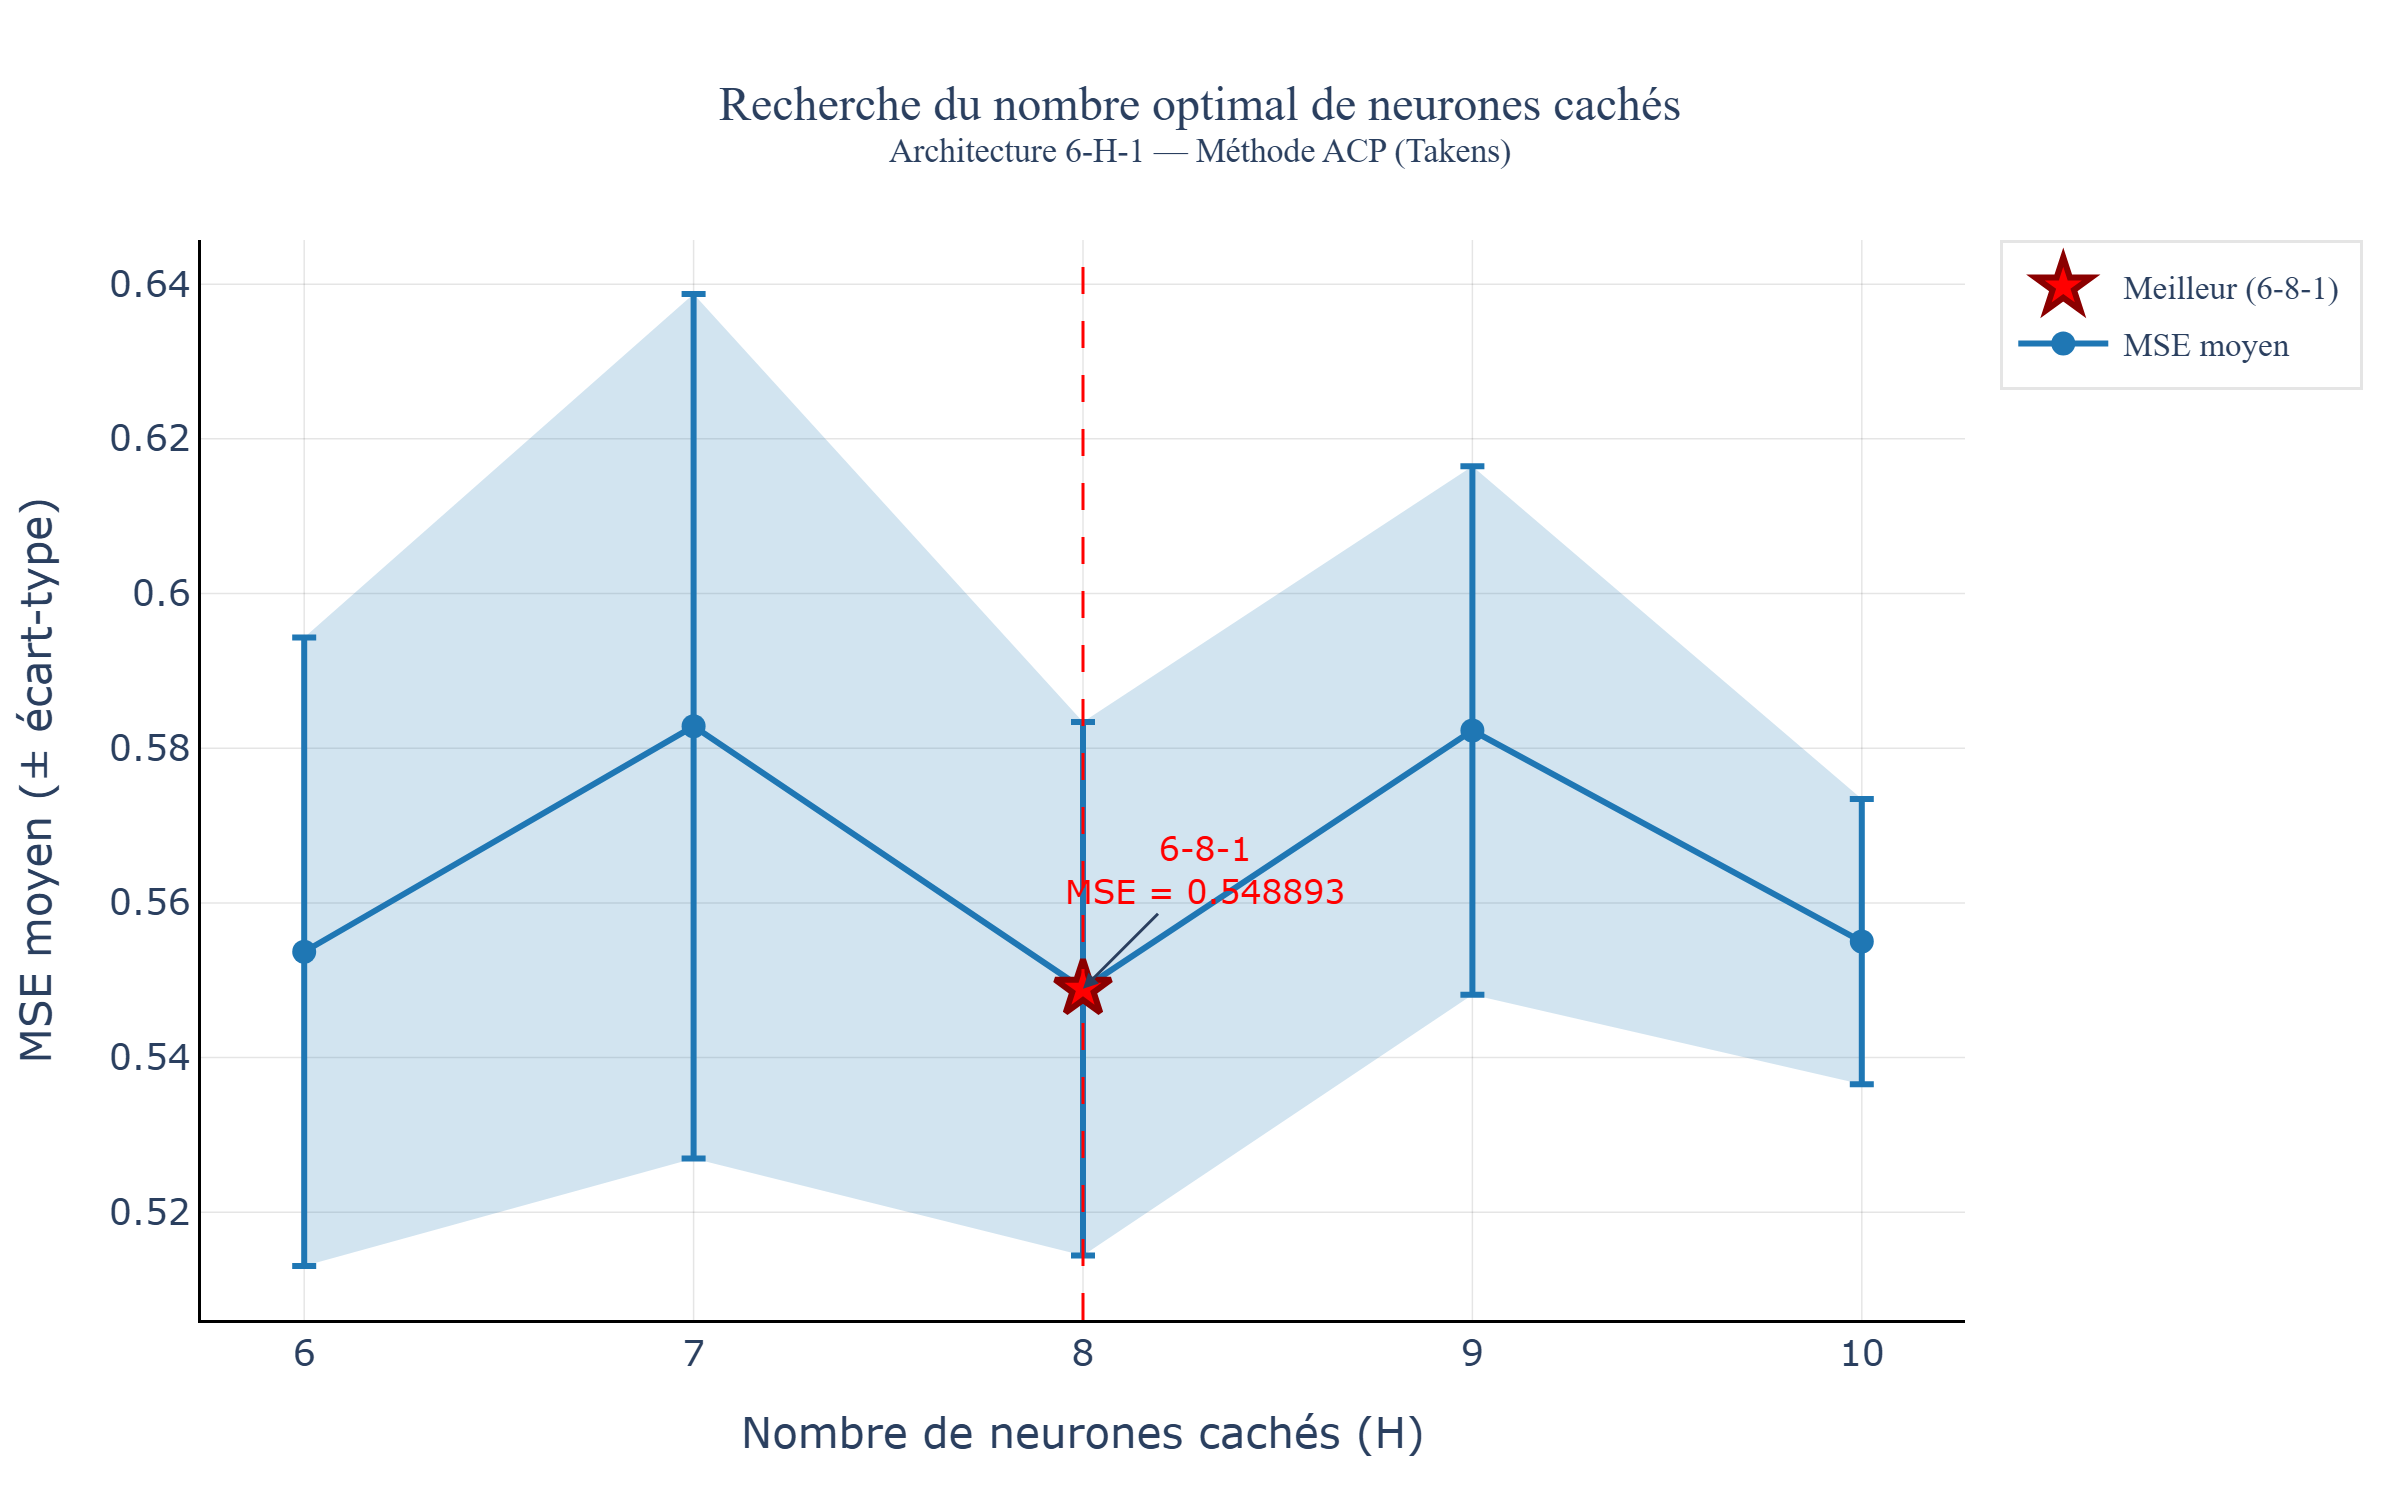
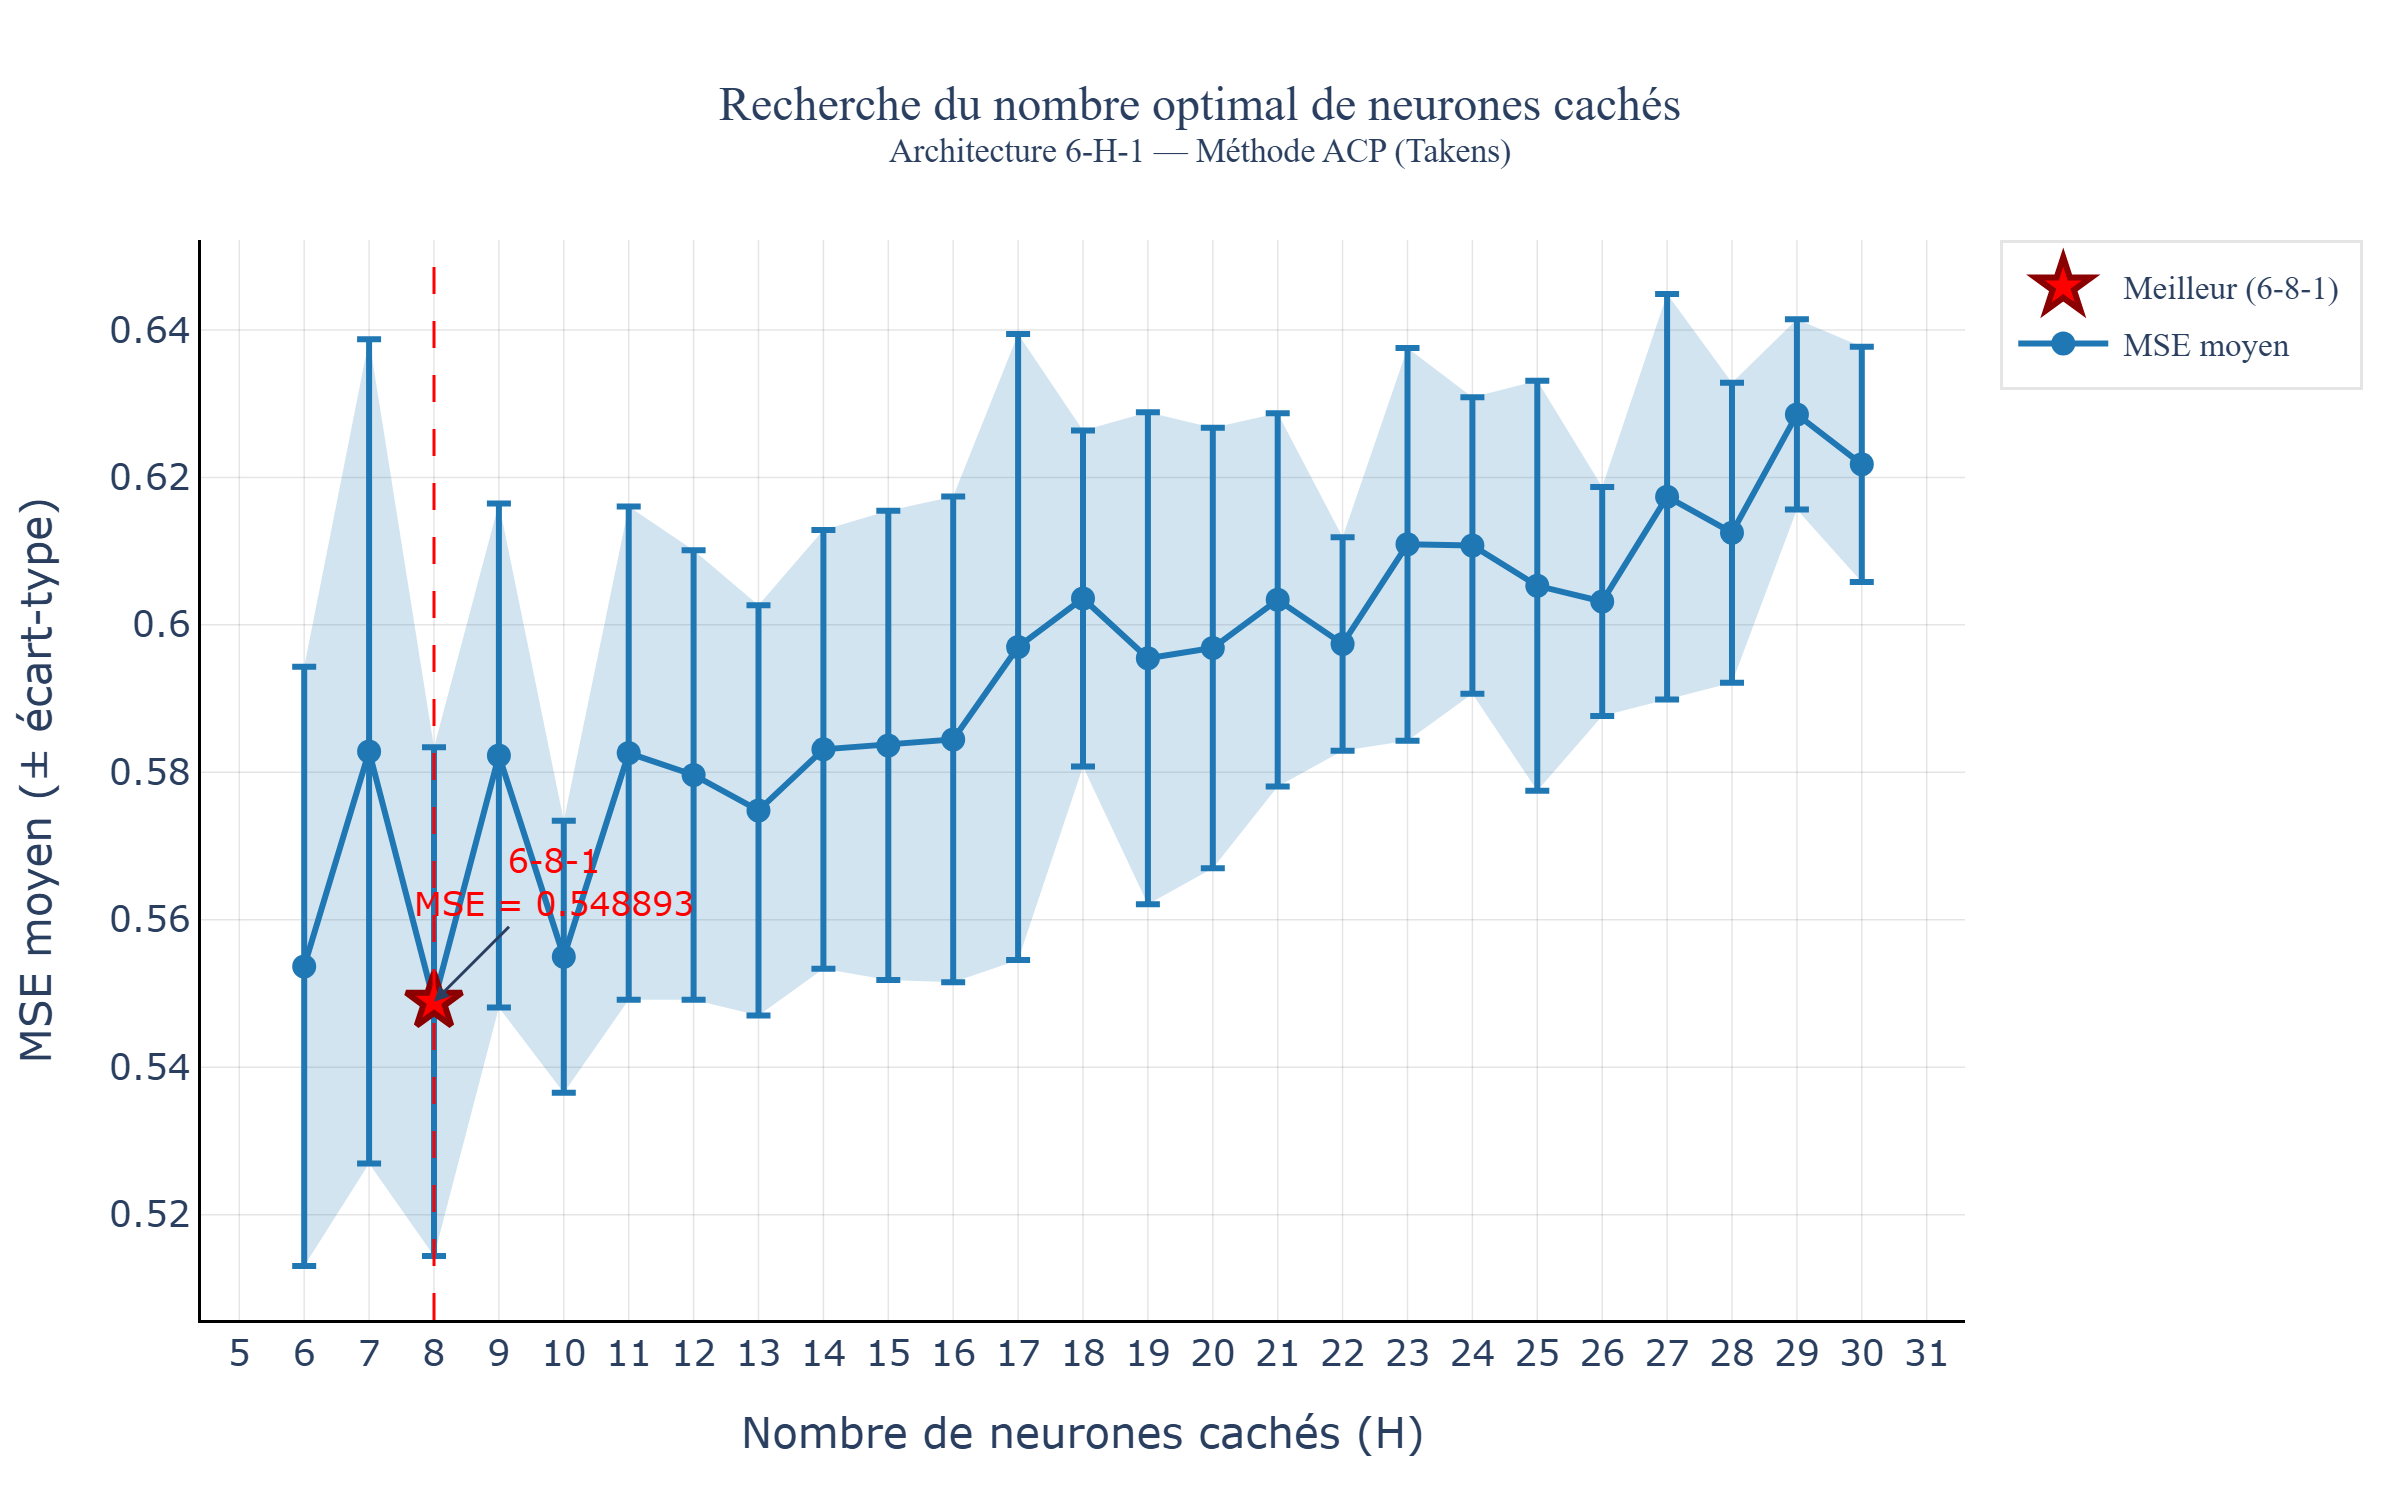
feat: etude complete neurones caches 6-6-1 a 6-30-1
- 25 architectures testees, 10 repetitions chacune (250 entrainements)
- Meilleure architecture : 6-8-1 (MSE=0.549)
- Tendance : MSE augmente pour H > 13 (surapprentissage)
- Graphique publication-quality mis a jour

diff --git a/scripts/run_hidden_neurons_search.py b/scripts/run_hidden_neurons_search.py
@@ -31,7 +31,7 @@ XLSX_PATH = Path("data/raw/henon_500.xlsx")
 EMBEDDING_DIM = 6
 DELAY = 1
 OUTPUT_DIR = Path("results/architecture_search")
-HIDDEN_RANGE = [6, 7, 8, 9, 10]
+HIDDEN_RANGE = list(range(6, 31))  # 6-6-1 à 6-30-1
 N_REPETITIONS = 10
 LEARNING_RATE = 0.01
 EPOCHS = 500